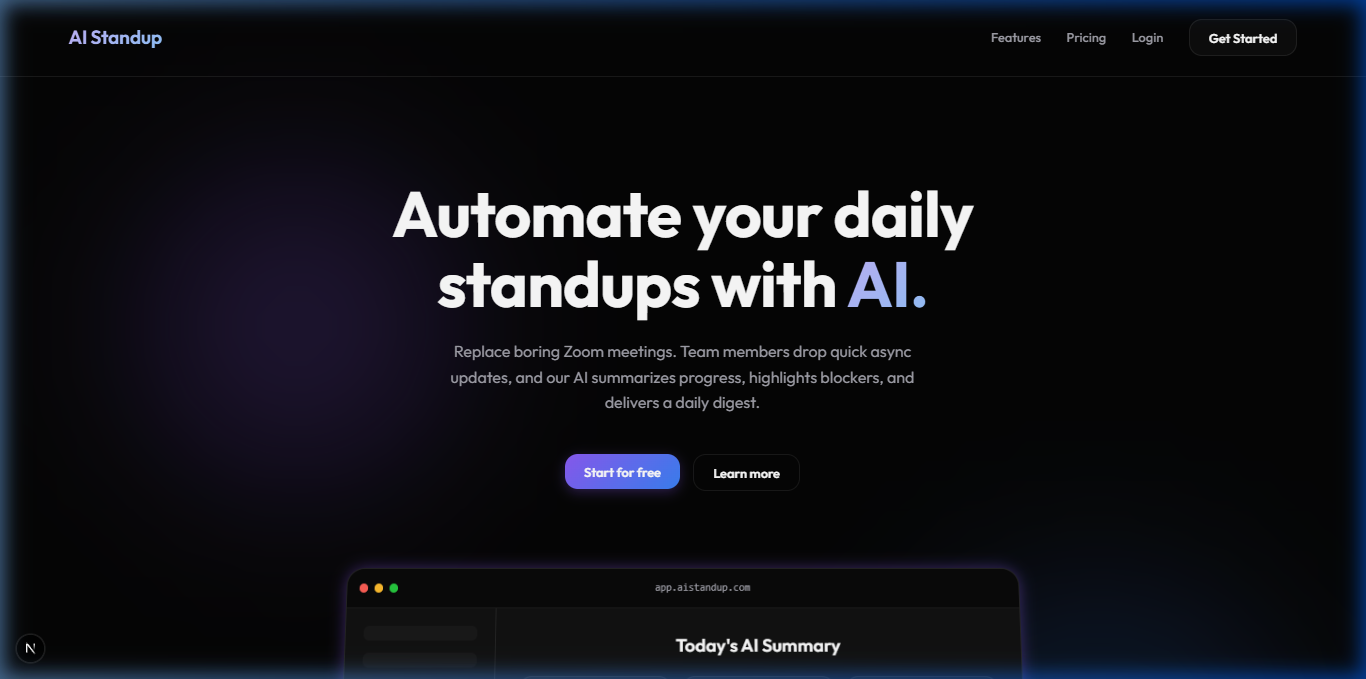
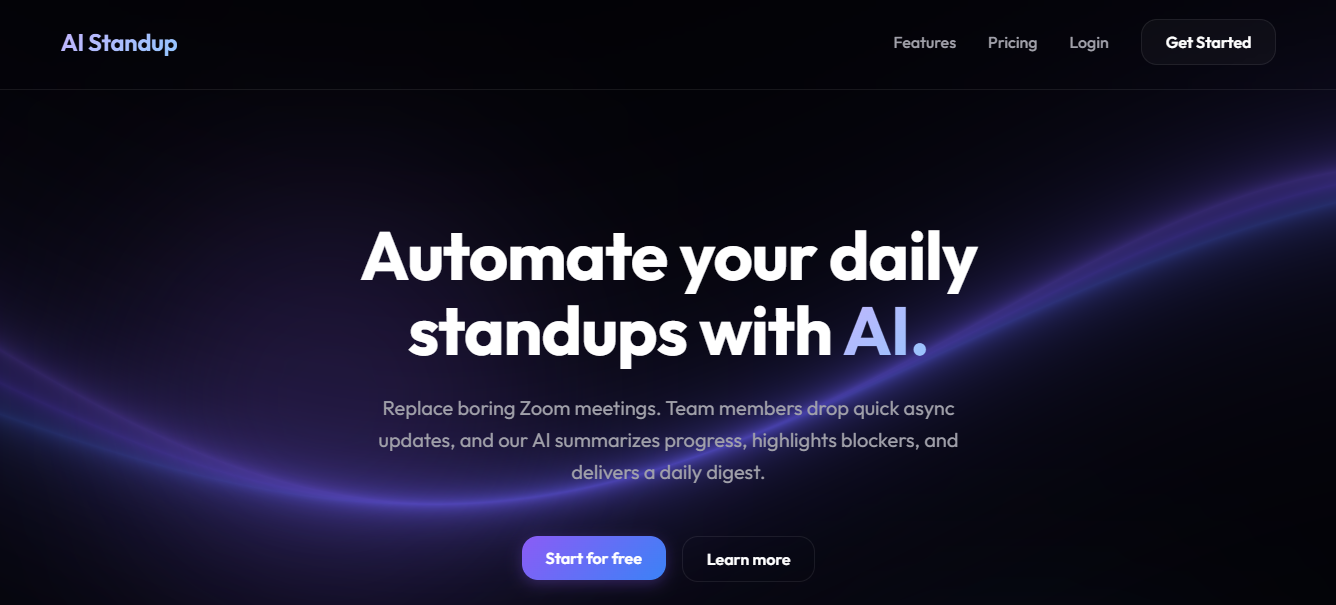
update project showcase: remove unused images, make cards clickable, and add production links

diff --git a/src/components/scenes/ShowcaseScene.tsx b/src/components/scenes/ShowcaseScene.tsx
@@ -205,7 +205,18 @@ function ShowcaseContent() {
               className="showcase-card-wrapper h-full"
               data-flip-id={project.id}
             >
-              <TiltCard className="showcase-card group bg-[var(--color-bg-primary)] rounded-2xl border border-[var(--color-border)] hover:border-[var(--color-accent-blue)]/50 flex flex-col h-full overflow-hidden focus-within:ring-2 focus-within:ring-[var(--color-accent-blue)]">
+              <TiltCard
+                className="showcase-card group bg-[var(--color-bg-primary)] rounded-2xl border border-[var(--color-border)] hover:border-[var(--color-accent-blue)]/50 flex flex-col h-full overflow-hidden focus-within:ring-2 focus-within:ring-[var(--color-accent-blue)] cursor-pointer"
+                onClick={() => {
+                  if (project.slug) {
+                    router.push(`/projects/${project.slug}`);
+                  } else if (project.link) {
+                    window.open(project.link, "_blank");
+                  } else if (project.github) {
+                    window.open(project.github, "_blank");
+                  }
+                }}
+              >
                 {/* Image Container / Placeholder */}
                 <div className="relative h-56 w-full bg-gradient-to-tr from-[var(--color-bg-secondary)] to-[var(--color-bg-primary)] overflow-hidden">
                   {project.image ? (
@@ -295,6 +306,7 @@ function ShowcaseContent() {
                         <Link
                           href={`/projects/${project.slug}`}
                           className="text-[var(--color-accent-blue)] font-semibold hover:text-[var(--color-text-primary)] transition-colors flex items-center gap-1 focus:outline-none"
+                          onClick={(e) => e.stopPropagation()}
                         >
                           Case Study <span>↗</span>
                         </Link>
@@ -305,6 +317,7 @@ function ShowcaseContent() {
                           target="_blank"
                           rel="noopener noreferrer"
                           className={`${project.slug ? "text-[var(--color-text-secondary)]" : "text-[var(--color-accent-blue)]"} font-semibold hover:text-[var(--color-text-primary)] transition-colors flex items-center gap-1 focus:outline-none`}
+                          onClick={(e) => e.stopPropagation()}
                         >
                           View Site <span>↗</span>
                         </a>
@@ -316,6 +329,7 @@ function ShowcaseContent() {
                           rel="noopener noreferrer"
                           className="text-[var(--color-text-secondary)] hover:text-[var(--color-text-primary)] transition-colors flex items-center gap-1 focus:outline-none"
                           aria-label="View source on GitHub"
+                          onClick={(e) => e.stopPropagation()}
                         >
                           <svg className="w-5 h-5" fill="currentColor" viewBox="0 0 24 24">
                             <path
@@ -352,6 +366,7 @@ function ShowcaseContent() {
                           <Link
                             href={`/projects/${project.slug}`}
                             aria-label={`View ${project.title}`}
+                            onClick={(e) => e.stopPropagation()}
                           >
                             {content}
                           </Link>
@@ -363,6 +378,7 @@ function ShowcaseContent() {
                             target="_blank"
                             rel="noopener noreferrer"
                             aria-label={`View ${project.title}`}
+                            onClick={(e) => e.stopPropagation()}
                           >
                             {content}
                           </a>

diff --git a/src/content/showcase.ts b/src/content/showcase.ts
@@ -32,6 +32,7 @@ export const showcaseData: Project[] = [
       "Team analytics dashboard with health scoring and trend analysis",
     ],
     image: "/images/projects/ai-standup.png",
+    link: "https://www.aistandup.app",
     slug: "ai-standup",
     techStack: [
       "Next.js 16",
@@ -58,6 +59,7 @@ export const showcaseData: Project[] = [
       "Built scalable frontend with React.js and TypeScript",
     ],
     image: "/images/projects/mkprinting.png",
+    link: "https://mkprinting-web-f8c22bd038c2.herokuapp.com/",
     slug: "multi-kreasi-printing",
     techStack: ["React", "NestJS", "TypeScript", "PostgreSQL", "Redis", "Docker"],
     featured: true,
@@ -88,7 +90,6 @@ export const showcaseData: Project[] = [
       "Automated Service Level Agreement (SLA) tracking",
       "Lightweight Server-Side Rendering (SSR) with Templ",
     ],
-    image: "/images/projects/vendor_sla.jpg",
     slug: "vendor-sla-incident",
     techStack: ["Go", "PostgreSQL", "Chi", "Templ"],
     featured: false,
@@ -103,7 +104,6 @@ export const showcaseData: Project[] = [
       "Responsive data tables and charts",
       "Optimized complex state management",
     ],
-    image: "/images/projects/transporter_analytics.jpg",
     slug: "transporter-cost-analytics",
     techStack: ["React", "TypeScript", "Recharts", "Zustand", "TailwindCSS"],
     featured: false,

diff --git a/src/components/ui/TiltCard.tsx b/src/components/ui/TiltCard.tsx
@@ -3,12 +3,12 @@
 import { useRef, useState, ReactNode } from "react";
 import gsap from "gsap";
 
-interface TiltCardProps {
+interface TiltCardProps extends React.HTMLAttributes<HTMLDivElement> {
   children: ReactNode;
   className?: string;
 }
 
-export function TiltCard({ children, className = "" }: TiltCardProps) {
+export function TiltCard({ children, className = "", ...props }: TiltCardProps) {
   const cardRef = useRef<HTMLDivElement>(null);
   const glareRef = useRef<HTMLDivElement>(null);
   const [isHovered, setIsHovered] = useState(false);
@@ -73,6 +73,7 @@ export function TiltCard({ children, className = "" }: TiltCardProps) {
       onMouseEnter={handleMouseEnter}
       onMouseLeave={handleMouseLeave}
       style={{ transformStyle: "preserve-3d" }}
+      {...props}
     >
       {/* Glare effect */}
       <div
